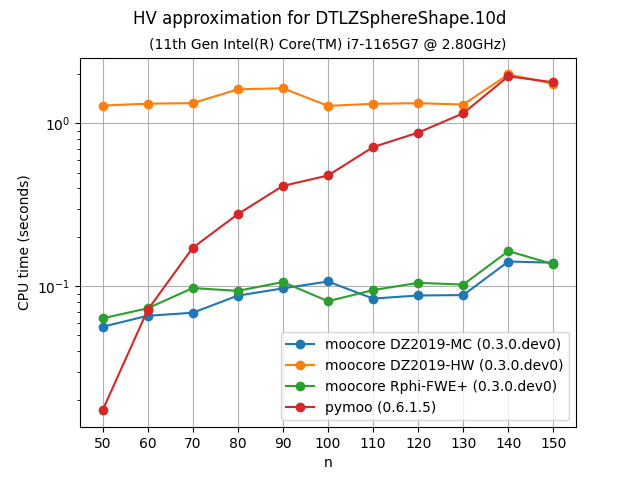
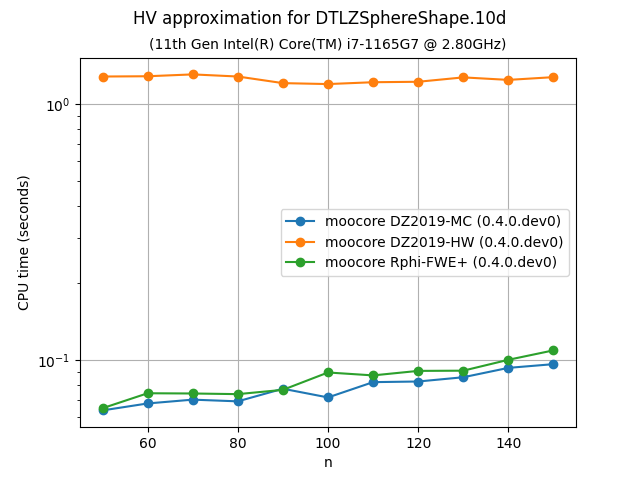
* python/benchmarks/bench_hvapprox.py: pymoo uses moocore now.    Use setup function.  * python/doc/source/_static/bench/hvapprox_bench-*.png: Regenerate.  * python/doc/source/benchmarks.inc.rst: Update.

diff --git a/python/benchmarks/bench_hvapprox.py b/python/benchmarks/bench_hvapprox.py
@@ -19,10 +19,6 @@ from bench import (
     timeit_template_return_1_value,  # time_hv_exact
 )
 
-from pymoo.indicators.hv.monte_carlo import (
-    ApproximateMonteCarloHypervolume as pymoo_hvapprox,
-)
-
 # See https://github.com/multi-objective/testsuite/tree/main/data
 path_to_data = "../../testsuite/data/"
 assert pathlib.Path(path_to_data).expanduser().exists()
@@ -41,17 +37,17 @@ files = {
     "DTLZLinearShape.6d": dict(
         file="DTLZLinearShape.6d.front.700pts.10.xz",
         ref=1,
-        range=(50, 600, 50),
+        range=(100, 1000, 100),
     ),
     "DTLZSphereShape.6d": dict(
         file="DTLZSphereShape.6d.front.500pts.10.xz",
         ref=1.1,
-        range=(50, 600, 50),
+        range=(100, 1000, 100),
     ),
     "ran.6d": dict(
         file="ran.800pts.6d.10",
         ref=10,
-        range=(50, 600, 50),
+        range=(100, 1000, 100),
     ),
     "ran.9d": dict(
         file="ran.80pts.9d.10",
@@ -96,6 +92,9 @@ for name in names:
     ref = np.full(x.shape[1], files[name]["ref"], dtype=float)
     n = get_range(len(x), *files[name]["range"])
 
+    def setup(z):
+        return dict(z=z, exact=time_hv_exact(name, len(z), z, ref))
+
     benchmarks = {
         "moocore DZ2019-MC": lambda z, exact: relerror(
             exact, moocore.hv_approx(z, ref=ref, method="DZ2019-MC")
@@ -106,16 +105,15 @@ for name in names:
         "moocore Rphi-FWE+": lambda z, exact: relerror(
             exact, moocore.hv_approx(z, ref=ref, method="Rphi-FWE+")
         ),
-        "pymoo": lambda z, exact, hv=pymoo_hvapprox(ref_point=ref): relerror(
-            exact, hv.add(z).hv
-        ),
     }
     bench = Bench(
-        name=name, n=n, bench=benchmarks, report_values="HV Relative Error"
+        name=name,
+        n=n,
+        setup=setup,
+        bench=benchmarks,
+        report_values="HV Relative Error",
     )
-    bench(
-        lambda n: dict(z=x[:n, :], exact=time_hv_exact(name, n, x[:n, :], ref))
-    )
+    bench(lambda n: x[:n, :])
     bench.plots(file_prefix=file_prefix, title=title)
 
 if "__file__" not in globals():  # Running interactively.

diff --git a/python/doc/source/benchmarks.inc.rst b/python/doc/source/benchmarks.inc.rst
@@ -20,9 +20,9 @@ Not all packages provide the same functionality. For example, `pymoo`_ does not
 provide the :ref:`epsilon indicator <epsilon_metric>`. `BoTorch`_ and
 `paretobench`_ only provide the hypervolume. `paretoset`_ and `fast-pareto`_
 only identify nondominated points. `seqme`_ already uses `moocore`_, and
-`DESDEO`_, `DEAP`_, `pymoo`_ and `jMetalPy`_ also use `moocore`_ for
-hypervolume, but other functionality, such as filtering dominated points, is
-still slower than `moocore`_.
+`DESDEO`_, `DEAP`_, `pymoo`_ and `jMetalPy`_ also use `moocore`_ for computing
+the hypervolume, but other functionality, such as filtering dominated points,
+is still slower than `moocore`_.
 
 We would like to benchmark `pygmo`_, however, it is currently impossible to install using ``pip`` (See https://github.com/esa/pygmo2/issues/152).
 
@@ -184,8 +184,7 @@ The following plots compare the accuracy and speed of approximating the
 hypervolume with the various methods provided by :func:`moocore.hv_approx`. The
 plots show that there is no clear winner, in terms of approximation error,
 between methods ``Rphi-FWE+`` (default) and ``DZ2019-HW``, but both produce
-consistently lower approximation errors than method ``DZ2019-MC`` and than
-`pymoo`_.  However, ``Rphi-FWE+`` is as fast as ``DZ2019-MC`` and both are consistently faster than ``DZ2019-HW``, in particular with higher number of objectives. The computation time of `pymoo`_ grows rapidly with the number of input points.
+consistently lower approximation errors than method ``DZ2019-MC``.  However, ``Rphi-FWE+`` is as fast as ``DZ2019-MC`` and both are consistently faster than ``DZ2019-HW``, in particular with higher number of objectives.
 
 If you compare the plots of **DTLZLinearShape-3d** and **DTLZLinearShape-4d** below to the ones above in the previous section, you can see that the exact computation of the hypervolume in 3D or 4D for thousands of points takes milliseconds, whereas approximating the hypervolume is significantly slower and, thus, not worth doing.
 
